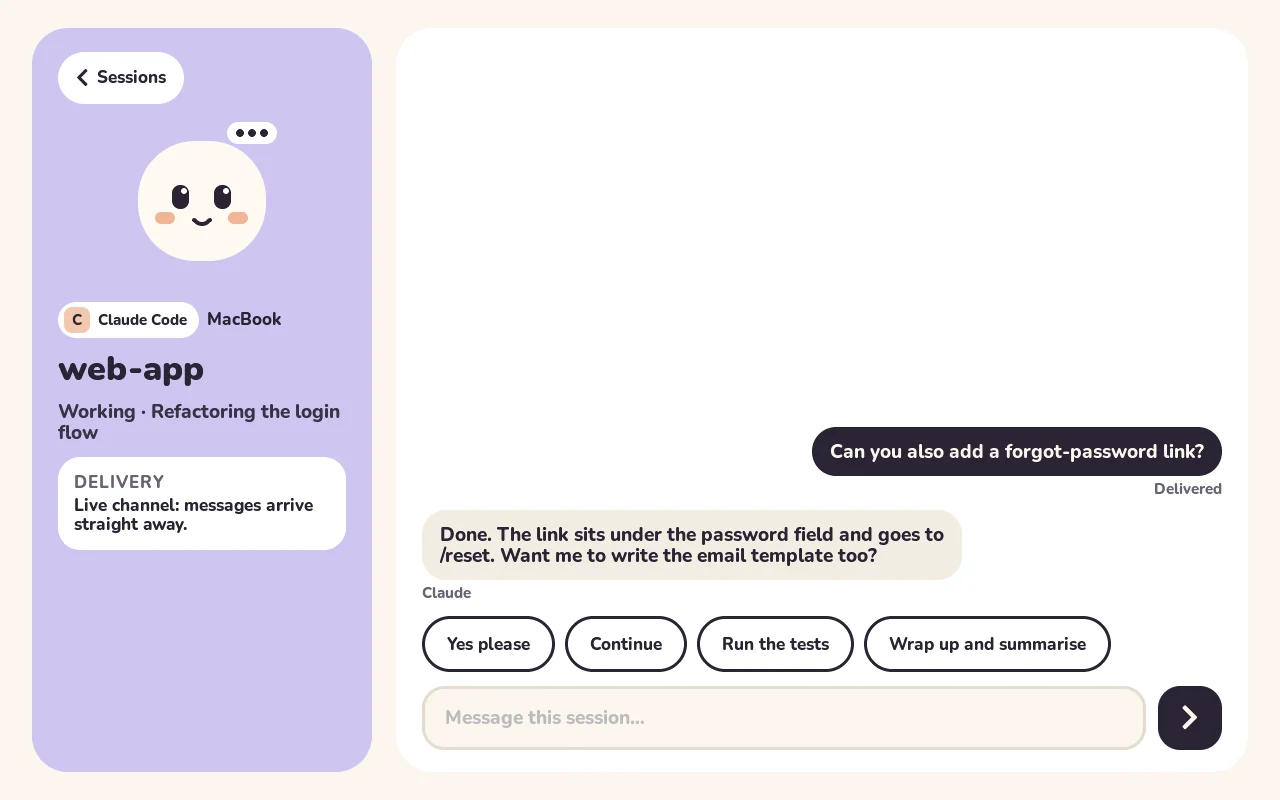
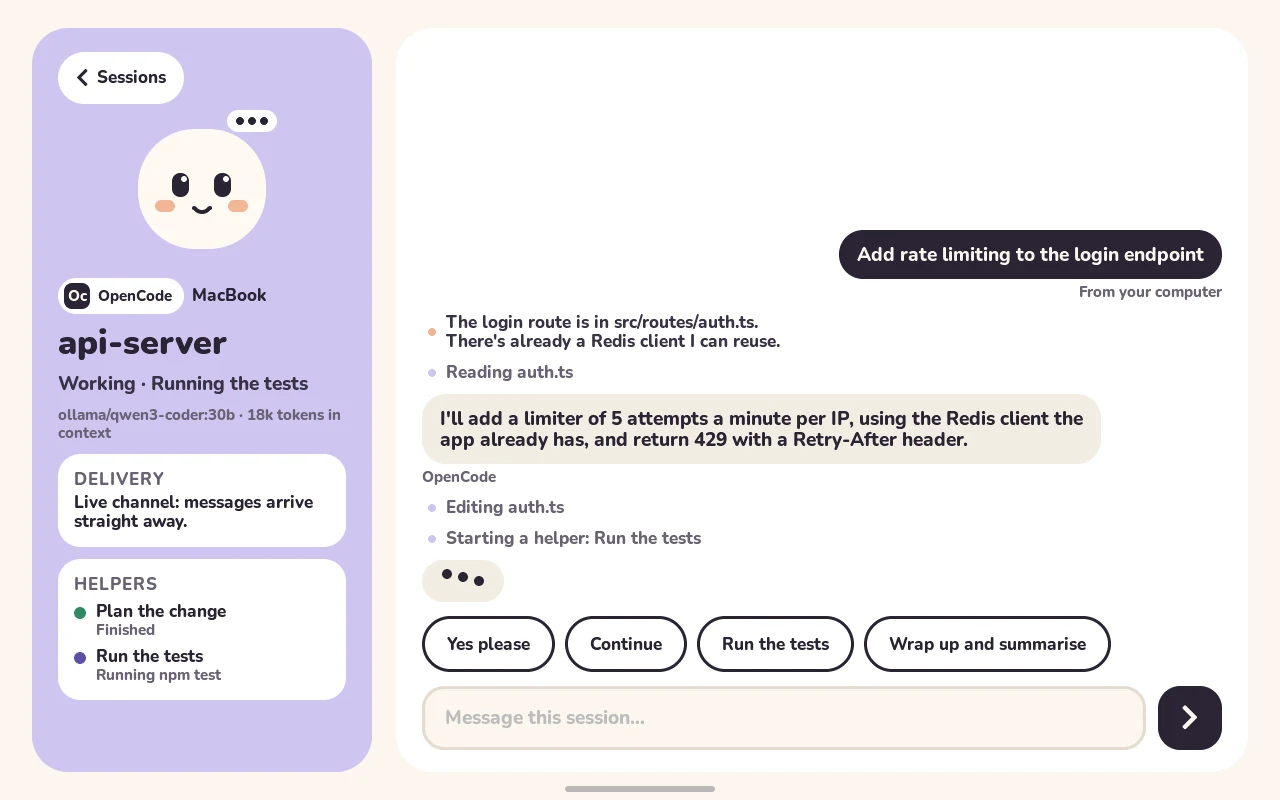
Site: new screens for conversations and starting sessions; FAQ about /app

diff --git a/site/public/index.html b/site/public/index.html
@@ -463,8 +463,12 @@ p code { font: 600 0.88em var(--mono); background: var(--sunk); padding: 2px 7px
               <figcaption><b>Answer Claude's questions</b><span>Its multiple-choice questions become big buttons, and your answer goes straight back.</span></figcaption>
             </figure>
             <figure class="panel" id="p-chat" role="tabpanel" aria-labelledby="t-chat">
-              <div class="frame"><img src="/media/chat.webp" width="1280" height="800" alt="Chat with a Claude Code session, with quick replies" loading="lazy"></div>
-              <figcaption><b>Message any session</b><span>Quick replies like "Run the tests", or type on the on-screen keyboard.</span></figcaption>
+              <div class="frame"><img src="/media/chat.webp" width="1280" height="800" alt="A session's conversation: your prompt, its thinking, the files it edits, its reply and its helpers, with quick replies" loading="lazy"></div>
+              <figcaption><b>Follow the whole conversation</b><span>Its replies as they arrive, what it's thinking, every step and its helpers. Reply with a tap or the on-screen keyboard.</span></figcaption>
+            </figure>
+            <figure class="panel" id="p-new" role="tabpanel" aria-labelledby="t-new">
+              <div class="frame"><img src="/media/new-session.webp" width="1280" height="800" alt="New session: pick the computer, the agent (Claude Code, OpenCode or Gemini CLI), the model and the project, then say what to do" loading="lazy"></div>
+              <figcaption><b>Start a session from the screen</b><span>Pick the computer, the agent, the model and the project, then say what it should do.</span></figcaption>
             </figure>
             <figure class="panel" id="p-home" role="tabpanel" aria-labelledby="t-home">
               <div class="frame"><img src="/media/home.webp" width="1280" height="800" alt="Home screen with Deskling, the clock, reminders and a live feed" loading="lazy"></div>
@@ -483,7 +487,8 @@ p code { font: 600 0.88em var(--mono); background: var(--sunk); padding: 2px 7px
         <div class="tabs" role="tablist" aria-label="Deskling screens" aria-orientation="vertical">
           <button type="button" class="tab" role="tab" id="t-permission" aria-controls="p-permission" aria-selected="true"><span class="dot" style="--c:#C8553D"></span><b>Allow or deny a command</b><span>See exactly what Claude wants to run, on which machine, and tap once.</span></button>
           <button type="button" class="tab" role="tab" id="t-question" aria-controls="p-question" aria-selected="false" tabindex="-1"><span class="dot" style="--c:#E0B43A"></span><b>Answer its questions</b><span>Its multiple-choice questions become big buttons, and your answer goes straight back.</span></button>
-          <button type="button" class="tab" role="tab" id="t-chat" aria-controls="p-chat" aria-selected="false" tabindex="-1"><span class="dot" style="--c:#8E80D6"></span><b>Message any session</b><span>Quick replies like "Run the tests", or type on the on-screen keyboard.</span></button>
+          <button type="button" class="tab" role="tab" id="t-chat" aria-controls="p-chat" aria-selected="false" tabindex="-1"><span class="dot" style="--c:#8E80D6"></span><b>Follow the whole conversation</b><span>Its replies as they arrive, what it's thinking, every step and its helpers.</span></button>
+          <button type="button" class="tab" role="tab" id="t-new" aria-controls="p-new" aria-selected="false" tabindex="-1"><span class="dot" style="--c:#CFC4F2"></span><b>Start a session</b><span>Pick the computer, the agent, the model and the project.</span></button>
           <button type="button" class="tab" role="tab" id="t-home" aria-controls="p-home" aria-selected="false" tabindex="-1"><span class="dot" style="--c:#F5C24A"></span><b>Tick off reminders</b><span>"Remind me at 3 to reply to that email." Claude sets it, and Deskling nudges you.</span></button>
           <button type="button" class="tab" role="tab" id="t-sessions" aria-controls="p-sessions" aria-selected="false" tabindex="-1"><span class="dot" style="--c:#2F8A63"></span><b>See every session</b><span>Your Mac, your PC, Cursor and cloud sessions, sorted by who needs you.</span></button>
           <button type="button" class="tab" role="tab" id="t-night" aria-controls="p-night" aria-selected="false" tabindex="-1"><span class="dot" style="--c:#2A2433"></span><b>Doze off at night</b><span>After 10pm it dims to a quiet clock and only wakes for what matters.</span></button>
@@ -590,6 +595,7 @@ deskling remind "Stretch" --in 20m</code></pre><button type="button" class="copy
         <details><summary>Can it be quiet?</summary><p>Yes. There's a volume slider, and "Quiet at night" mutes everything between 10pm and 7am except the reminders you asked for.</p></details>
         <details><summary>Which agents does it work with?</summary><p>Claude Code and OpenCode fully, with any model OpenCode can use, including local ones. The runner also starts Gemini CLI, Cursor, Codex, Copilot, Goose, Qwen Code, Kimi and Kiro from the screen. Anything else can send notifications, reminders and its status with one command.</p></details>
         <details><summary>Does it work with more than one computer?</summary><p>That's the point. Install the plugin on each one, and every session shows up with the name of the machine it's on.</p></details>
+        <details><summary>Can I try it before I have the board?</summary><p>Yes. Deploy your relay and open its <code>/app</code> page: it's Deskling in your browser, with the same conversations, approvals and new sessions. Add it to your phone's home screen and it works there too.</p></details>
         <details><summary>I don't have a 3D printer.</summary><p>It works fine without the case, propped up on a little stand. Any print service can make the parts from the STL files in the repo.</p></details>
       </div>
     </div>
